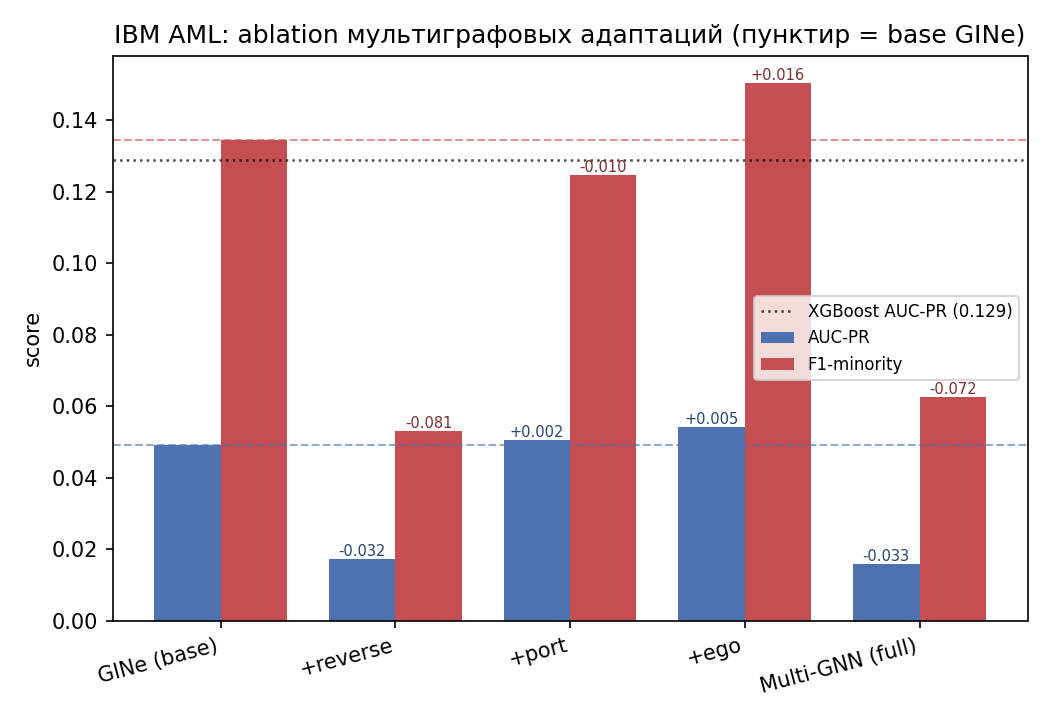
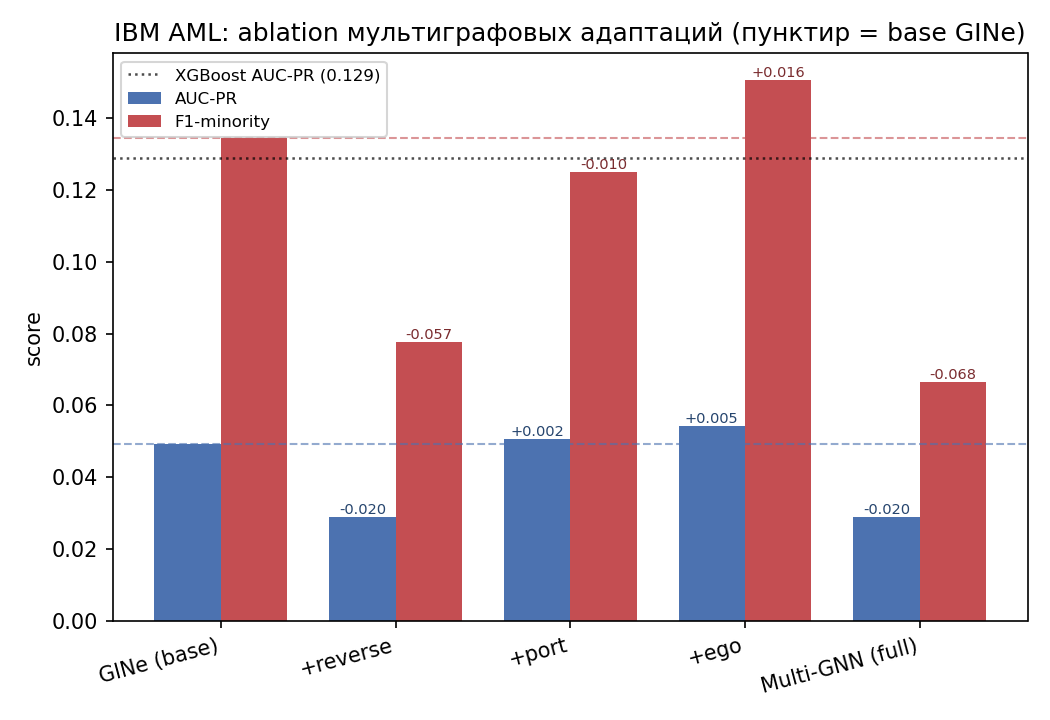
docs(phase D): пересборка ablation-сводки после фикса reverse MP

diff --git a/results/ibm_comparison.md b/results/ibm_comparison.md
@@ -7,7 +7,7 @@
 |---|---|---|---|---|
 | XGBoost | 0.1289 | 0.1900 | 0.0000 | 0.2508 |
 | GINe (base) | 0.0492 | 0.1344 | 0.0000 | 0.1746 |
-| +reverse | 0.0174 | 0.0530 | 0.0000 | 0.0506 |
+| +reverse | 0.0290 | 0.0776 | 0.0017 | 0.0795 |
 | +port | 0.0507 | 0.1248 | 0.0006 | 0.1591 |
 | +ego | 0.0543 | 0.1505 | 0.0000 | 0.1691 |
-| Multi-GNN (full) | 0.0160 | 0.0628 | 0.0000 | 0.0890 |
+| Multi-GNN (full) | 0.0290 | 0.0664 | 0.0000 | 0.0712 |